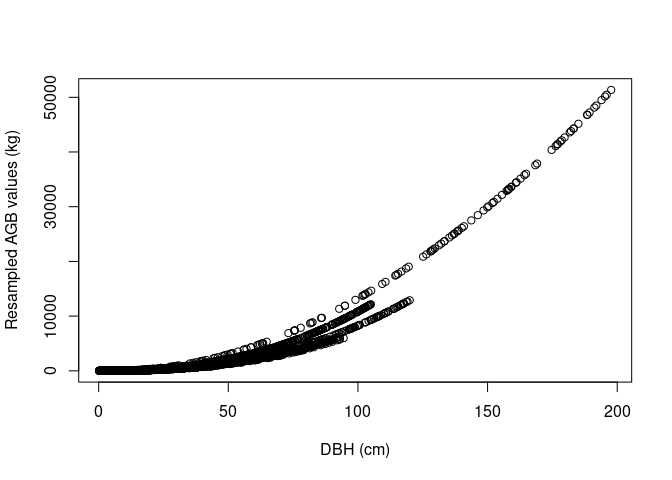
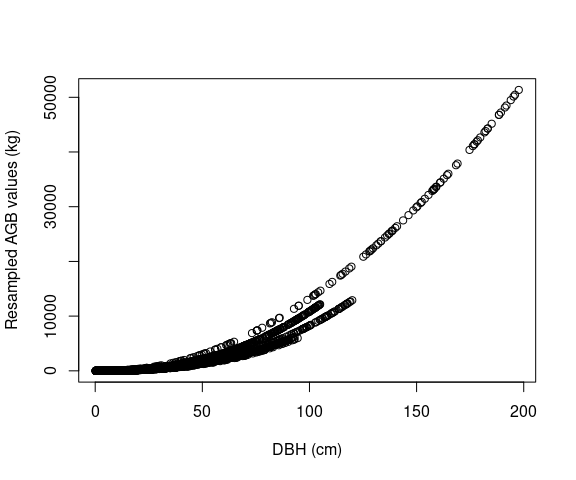
Adjust figure width and height as in vignette

diff --git a/README.md b/README.md
@@ -172,7 +172,7 @@ plot(
 )
 ```
 
-<img src="man/figures/README-resample-acer-1.png" width="100%" />
+![](man/figures/README-resample-acer-1.png)<!-- -->
 
 The resampled values are then used to fit the following nonlinear model:
 <img src="https://render.githubusercontent.com/render/math?math=AGB = a * dbh ^ b %2B e">,
@@ -197,7 +197,7 @@ illustrate_allodb(
 )
 ```
 
-<img src="man/figures/README-est-params-acer-1.png" width="100%" />
+![](man/figures/README-est-params-acer-1.png)<!-- -->
 
 The `est_params` function can be used for all species/site combinations
 in the dataset at once.
